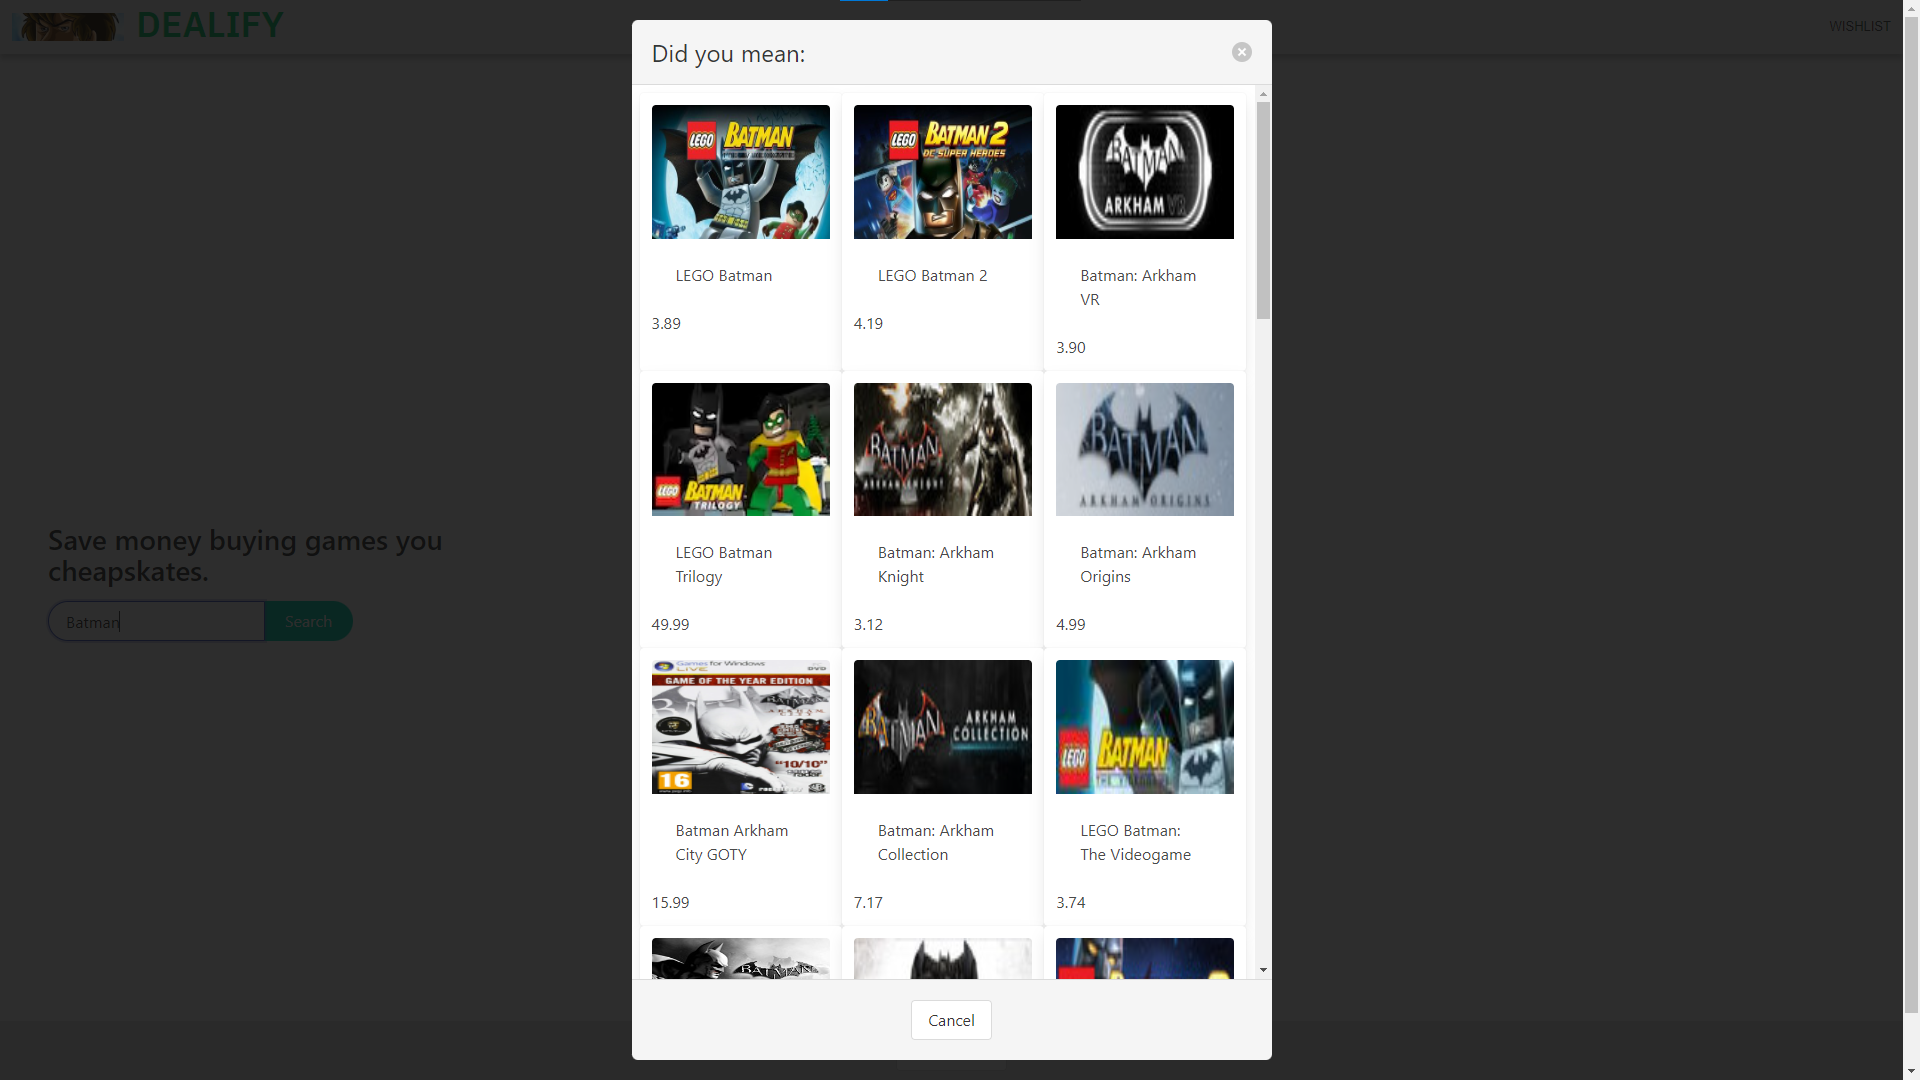
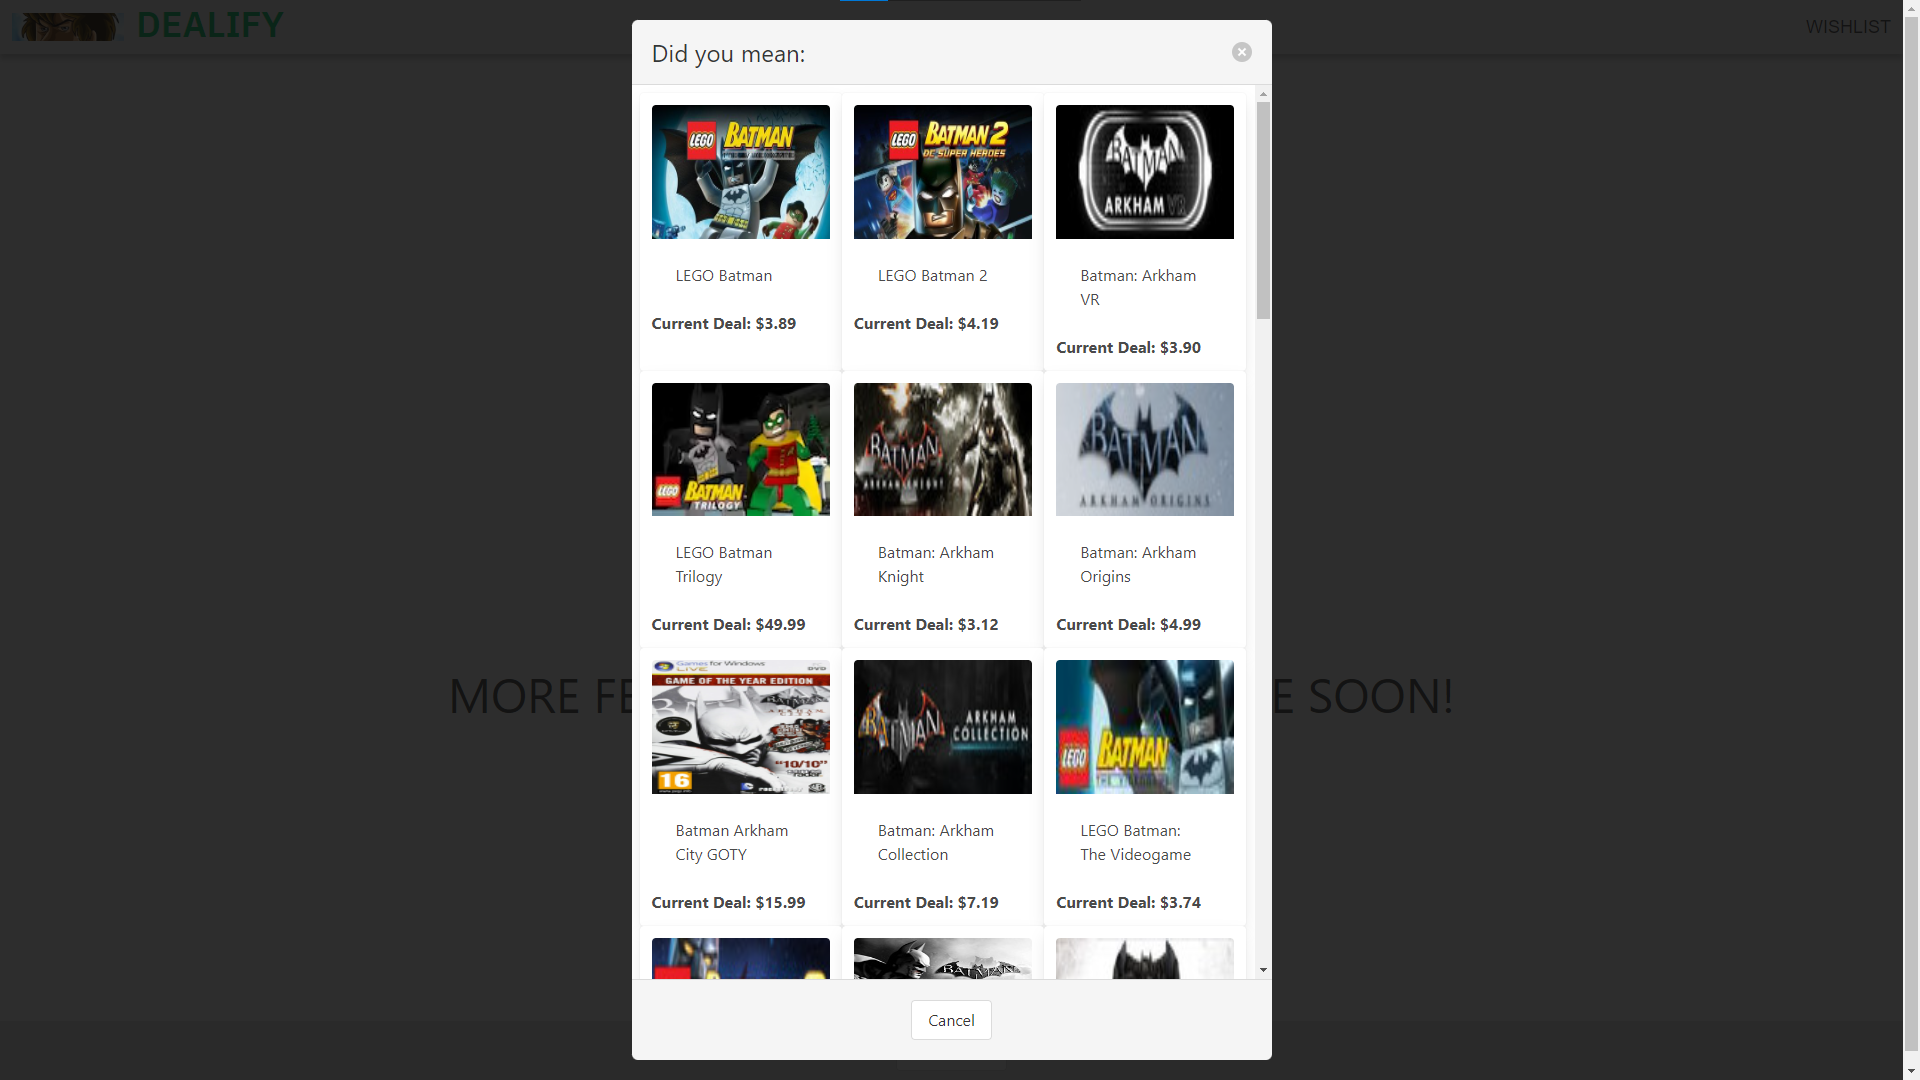
updated readme

diff --git a/README.md b/README.md
@@ -20,7 +20,7 @@ The site is dedicated to helping users quickly find the most cost-effective deal
 ## Usage
 1. Click the search bar and search for a game title (i.e Batman)
 2. Click the deal shown
-3. Game page will load and give a brief description along with a logo of the store that has the cheapest price currently available. 
+3. Game page will load and give a brief description along with details of the cheapest price currently available. 
 
 
 ## Screenshots
